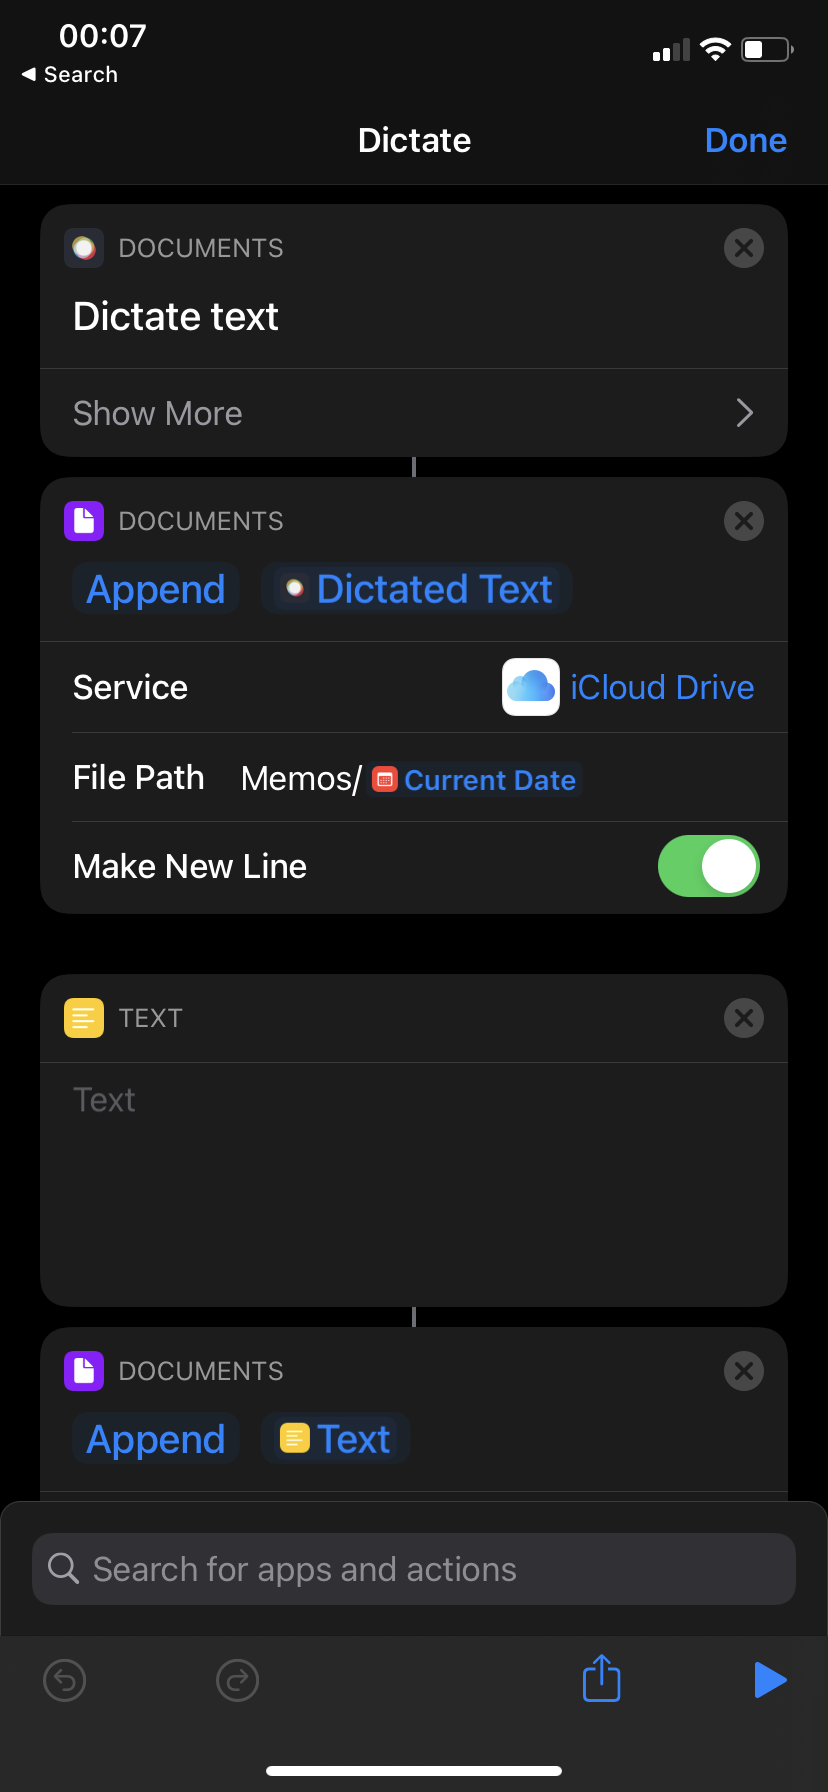
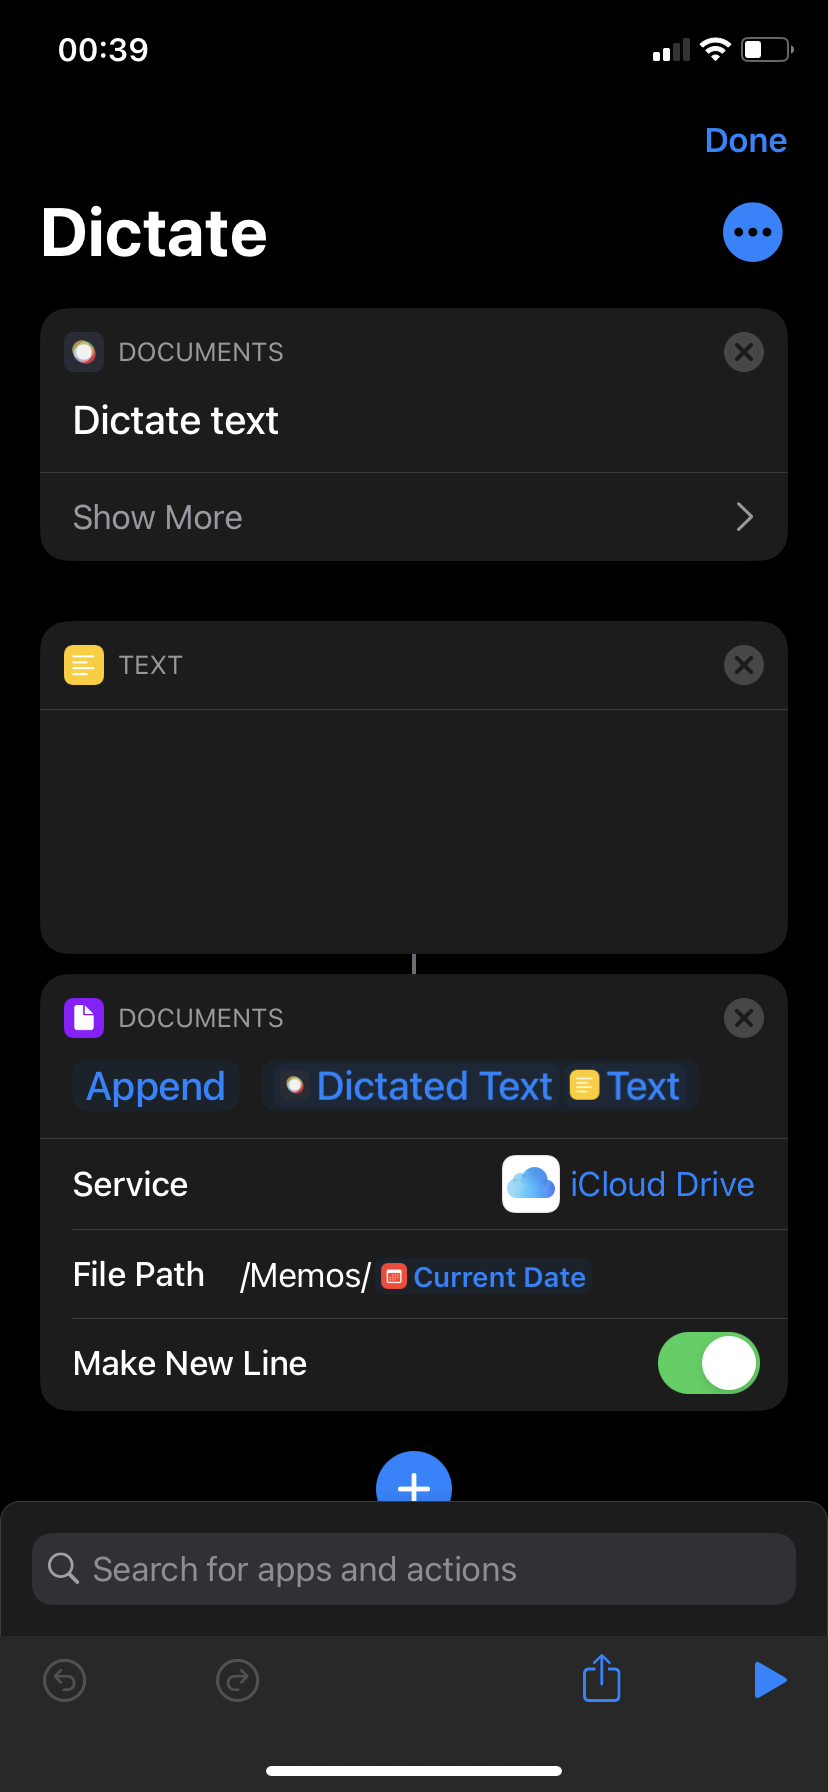
obsidian-voice-notes

diff --git a/content/posts/obsidian-voice-notes.md b/content/posts/obsidian-voice-notes.md
@@ -10,14 +10,12 @@ draft = "true"
 ![[obsidian.PNG]]
 
 ### Setup
-- Create new Shortcut in iOS with building blocks
+- Create new iOS Shortcut (or copy mine [here](https://www.icloud.com/shortcuts/9c48536a66ec4ab4b1e9192f06e2a632))
 	- *Dictate Text*
-	- *Append to File* 
-		- save *Dictated Text* to file path *Current Date* 
 	- *Text*
-		- leave empty 
+		- one new line 
 	- *Append to File* 
-		- save *Text* to same file path (*Current Date*) as before [^append]
+		- Append "**Dictated text** `space` **Text**"" to file path *Current Date* [^append]
 - Go to settings and change Siri settings to trigger on side button
 
 |![[shortcuts.PNG]]| ![[siri.PNG]]| 
@@ -26,7 +24,7 @@ draft = "true"
 
 
 - On your Mac/Windows, go to the iCloud folder where Shortcuts saves file
-	- located in `/Users/User/Library/Mobile\ Documents/iCloud~is~workflow~my~workflows/Documents/`
+	- located in `/Users/<username>/Library/Mobile\ Documents/iCloud~is~workflow~my~workflows/Documents/`
 - Symlink this folder into your Obsidian Vault
 	- open terminal and run `ln -s <path to of your Obsidian vault>`
 - Install the plugin [txt as md](https://github.com/deathau/txt-as-md-obsidian) to open `.txt` files directly in Obsidian [^txtasmd]
@@ -36,6 +34,6 @@ draft = "true"
 
 
 
-[^append]: This way, triggering the shortcut for the first time on a given day will create a new txt file with the transcribed text. For all subsequent recordings on the same day however, the transcribed text will directly be appended to the already existing file. Appending the empty *Text* will create a new line after every transcribed block
+[^append]: Using *Append to file* instead of *Save to file* prevents creating new files for each recording. Triggering the shortcut for the first time on a given day will still create a new txt file with the transcribed text but for all subsequent recordings on the same day, the transcribed text will be appended to the already existing file. Appending *Dictated Text* **and** *Text* (with a new line in it) will create a new line after every transcribed block.
 
 [^txtasmd]: I didn't figure out how to make the iOS shortcut save the transcribed text as markdown. There's an option to save as rich text but the resulting file was still .txt for me. There's another shortcut building block called "Convert rich text to markdown" but applying it afterwards didn't help, instead, it just yielded a .txt with a markdown image link in it -.-
